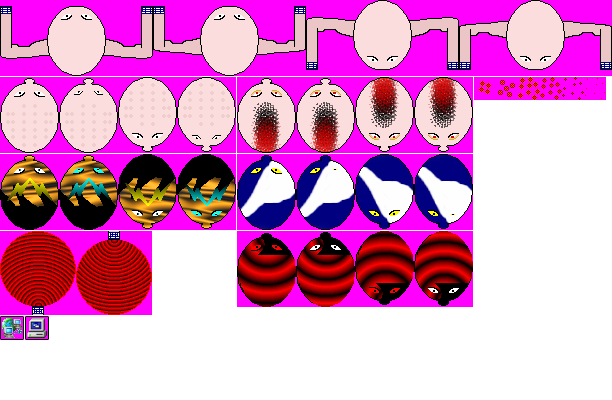
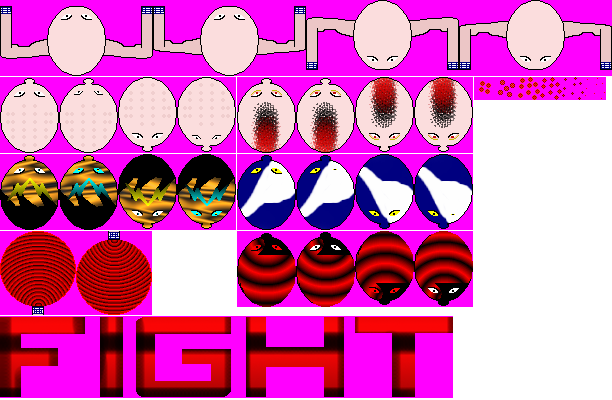
Ajustes para funcionar com o GBF

Changed region(s): [[0.0, 0.78, 0.7451, 1.0]]

diff --git a/projetos/games/pancada/src/Controle.cpp b/projetos/games/pancada/src/Controle.cpp
@@ -5,7 +5,7 @@
 Controle::Controle()
 {
     fase = NULL;
-    tempoEspera.setTempoOriginal(3);
+    tempoEspera.setTempoOriginal(4);
     tempoEspera.setUnidade(TEMPO_SEGUNDO);
     iniciar();
 }
@@ -16,6 +16,13 @@ Controle::~Controle()
         delete(fase);
         fase=NULL;
     }
+    delete(fight);
+}
+
+void Controle::carregar()
+{
+    SpriteFactory *spriteFactory = new SpriteFactory(GraphicSystemImageBufferManager::getInstance()->getImageBuffer("personagem"));
+    fight = spriteFactory->criarSpriteItem(0,316,453,82,1,1);
 }
 
 bool Controle::isGameOver()
@@ -75,7 +82,10 @@ void Controle::executar(InputSystem * input)
     if (!tempoEspera.isTerminou()){
         tempoEspera.processar();
         fase->desenhar();
-        WriteSystemManager::getInstance()->escrever(WriteSystemFontDefault::pumpdemi,100,100,"%02d",tempoEspera.getTempo());
+        WriteSystemManager::getInstance()->escrever("menu",180,170,"ROUND %02d",fase->getRound());
+        if (tempoEspera.getTempo()<=2){
+            fight->desenhar(50,200);
+        }
     } else if (fase->isFimRound()){
         if (fase->isProximoRound()){
             fase->iniciar();
@@ -87,7 +97,7 @@ void Controle::executar(InputSystem * input)
         fase->desenhar();
     }
 
-        WriteSystemManager::getInstance()->escrever(WriteSystemFontDefault::pumpdemi,100,150,"round %02d",fase->getRound());
+
 }
 
 void Controle::desenhar()

diff --git a/projetos/games/pancada/src/FaseAbstract.cpp b/projetos/games/pancada/src/FaseAbstract.cpp
@@ -6,7 +6,7 @@ WriteSystemManager * FaseAbstract::wsManager;
 FaseAbstract::FaseAbstract()
 {
 	//informa tempo por round
-	cronometroRound.setTempoOriginal(3);
+	cronometroRound.setTempoOriginal(10);
 
 	lutadorPlayer = NULL;
 	lutadorPC     = NULL;

diff --git a/projetos/games/pancada/src/Controle.h b/projetos/games/pancada/src/Controle.h
@@ -36,11 +36,11 @@ class Controle
     void executar(InputSystem * input);
 
     void desenhar();
-
+    void carregar();
 
 
   private:
-
+    SpriteItem *fight;
 
   protected:
     TimerSystemCronometroDecrescente tempoEspera;
